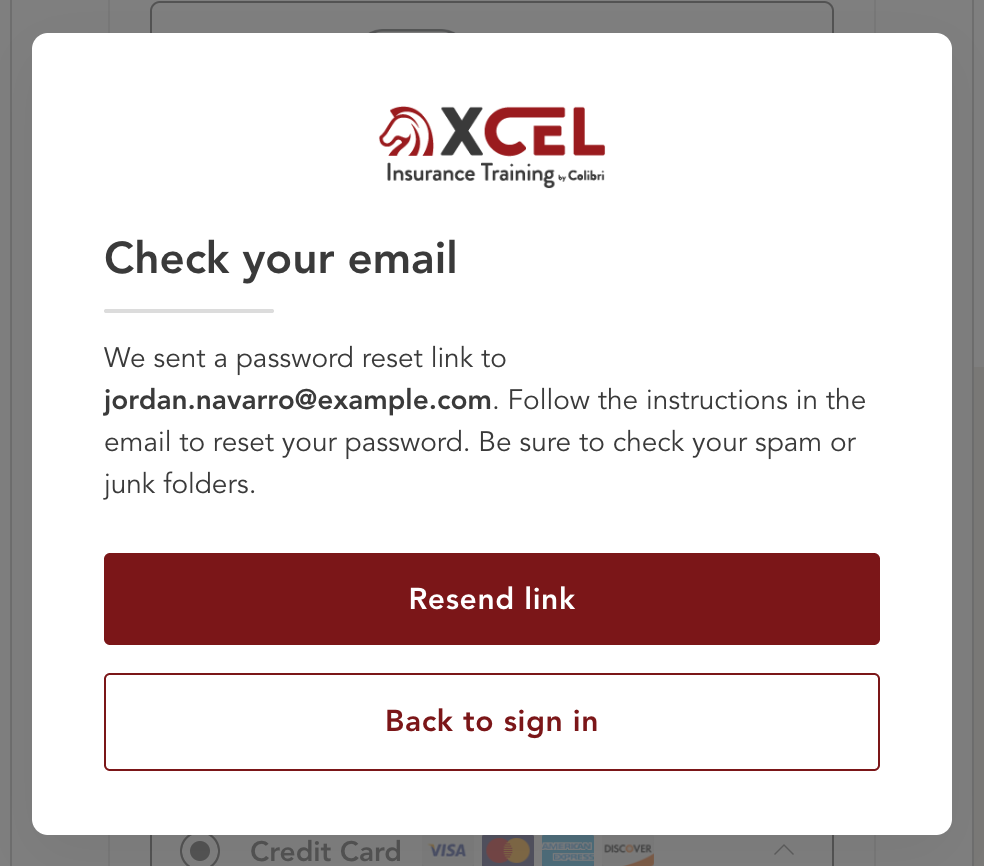
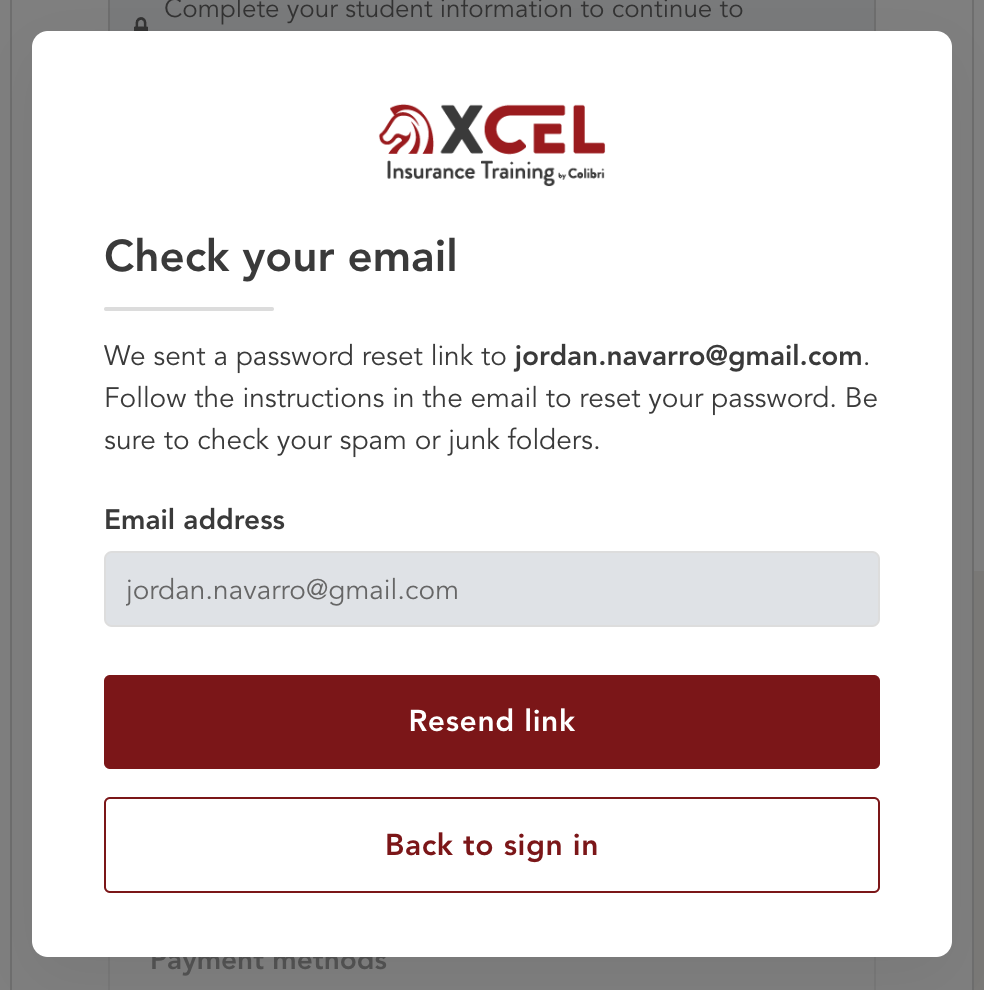
feat(invite-v3): Check your email shows the address and counts down Resend link
The reset link's address sits in a disabled grey field (no lock), and a
"You can resend the link in 0:30" line counts down under Resend link for
the 30 seconds it is off. Handoff questions on the wait and the countdown
marked Decided; screenshots re-shot.

diff --git a/src/data/handoffs/xcel-invite-v3-checkout-modals.ts b/src/data/handoffs/xcel-invite-v3-checkout-modals.ts
@@ -24,7 +24,7 @@ const feature: PrototypeFeature = {
   devStatus: 'not-ready',
   surface: 'invite',
   owner: 'Afsana',
-  lastUpdated: '2026-11-13T17:25:56Z',
+  lastUpdated: '2026-11-13T17:45:14Z',
   accent: 'gold',
   icon: 'flag',
   brands: ['xcel'],
@@ -248,8 +248,8 @@ const feature: PrototypeFeature = {
           { name: 'Password entered', when: 'Anything in the field. Log in turns on.' },
           { name: 'Direct Email — address pre-filled', when: 'Direct Email with an Atlas account. An Email address field holds the invited address, editable like any field — no lock, no grey; the line drops the address. Log in needs a password and a valid email.', why: 'The learner sees which account they are signing in to, and can sign in with another address if the invitation went to a different one.' },
           { name: 'Wrong password', when: 'Log in with a password that does not match. Red text under the field — "We couldn’t log you in. Please try again." — and a red stroke along the field’s bottom. Editing the password clears both.' },
-          { name: 'Check your email', when: 'Forgot password? was clicked. The modal becomes "Check your email": "We sent a password reset link to [email, bold]. Follow the instructions in the email to reset your password. Be sure to check your spam or junk folders." Resend link (primary) over Back to sign in (secondary).' },
-          { name: 'Resend link waiting', when: 'Check your email, straight after a link is sent and after every resend. Resend link is disabled until the system allows another request.', why: 'A link has just gone out; a second request before the first can arrive only multiplies the emails.' },
+          { name: 'Check your email', when: 'Forgot password? was clicked. The modal becomes "Check your email": "We sent a password reset link to [email, bold]. Follow the instructions in the email to reset your password. Be sure to check your spam or junk folders." Under it, the address in an Email address field, disabled — grey, no lock. Resend link (primary), the countdown under it while it waits, then Back to sign in (secondary).' },
+          { name: 'Resend link waiting', when: 'Check your email, straight after a link is sent and after every resend. Resend link is disabled for 30 seconds, and a line under it counts down: "You can resend the link in 0:30". The line goes when the button turns on.', why: 'A link has just gone out; a second request before the first can arrive only multiplies the emails.' },
           { name: 'Reset your password', when: 'The learner followed the reset link (in the demo: a click anywhere on Check your email except its two buttons). The XCEL logo, "Reset your password", "Create a new password for [email, bold].", Password, the strength meter and "Password must:" with the seven rules, Confirm new password, and Reset password.', why: 'The same meter and rules as the password the learner creates at the end of the flow, so a new password is held to the same bar and looks the same.' },
           { name: 'Passwords don’t match', when: 'Reset your password, with Confirm new password filled and different. "Passwords do not match." in red under it, and a red stroke along its bottom. Reset password stays off.' },
           { name: 'Password reset', when: 'Reset password was clicked. Back to Log in to continue, the password field empty, with a green banner under the heading: "Your password has been reset." A proposal — see Questions.' },
@@ -258,14 +258,15 @@ const feature: PrototypeFeature = {
           { name: 'Password eye', does: 'Shows or hides the password.' },
           { name: 'Forgot password?', does: 'Sends a reset link to the address and turns the modal into Check your email.' },
           { name: 'Log in', does: 'Off until there is a password. Then signs in and opens Signing you in…, or shows the wrong-password error.' },
-          { name: 'Resend link (Check your email)', does: 'Disabled for a wait after each send, the first included. Then sends another reset link and is disabled again.' },
+          { name: 'Resend link (Check your email)', does: 'Disabled for 30 seconds after each send, the first included, with the countdown under it. Then sends another reset link and is disabled again.' },
           { name: 'Back to sign in (Check your email)', does: 'Returns to Log in to continue.' },
           { name: 'Password and Confirm new password eyes (Reset your password)', does: 'Show or hide each field.' },
           { name: 'Reset password', does: 'Off until all seven rules are met and both fields match. Then saves the new password and returns to Log in to continue with the Password reset banner (proposed).' },
         ],
         statesMatrix: [
           { question: 'What if the password is wrong?', answer: '"We couldn’t log you in. Please try again." in red under the field, 12px, with a 2px red stroke along its bottom. Log in stays on.' },
-          { question: 'How long is Resend link disabled?', answer: 'Not decided — see Questions. The prototype uses 30 seconds as a stand-in.' },
+          { question: 'How long is Resend link disabled?', answer: '30 seconds after each send, counted down under the button.' },
+          { question: 'Can the learner change the address on Check your email?', answer: 'No. It is shown in a disabled field — grey, no lock. To use a different address they go Back to sign in.' },
         ],
         edgeCases: [
           'Demo only: the password "wrong" fails; any other password signs in.',
@@ -288,10 +289,11 @@ const feature: PrototypeFeature = {
           states: [
             'Log in, Resend link and Reset password: disabled (grey) until they can be used, then the brick primary.',
             'Back to sign in: the primary’s size and shape, white with a 1px brick outline and brick text.',
+            'Check your email’s Email address field: disabled — the locked grey (--color-e2e-form-locked-v3), secondary text, no lock icon.',
           ],
           responsive: [
             'The same 460px modal and spacing as Enter your email. Error line 12px / 16px under the field; Forgot password? 13px under that.',
-            'Check your email: Resend link and Back to sign in full width, stacked 14px apart.',
+            'Check your email: the disabled Email address field under the text, then Resend link, the countdown line (13px / 18px, secondary text, centred) and Back to sign in, full width, stacked 14px apart.',
           ],
           sources: [
             'The final prototype is the source of truth — the second Live Preview route.',
@@ -502,15 +504,13 @@ const feature: PrototypeFeature = {
         },
         {
           question: 'How long is Resend link disabled on Check your email?',
-          decision: 'Open — the system’s call. It must stay disabled until another request is allowed. The prototype uses 30 seconds as a stand-in.',
-          status: 'Needs weigh-in',
-          owner: 'Engineering',
+          decision: '30 seconds after each send, the first included (Afsana, 2026-11-13).',
+          status: 'Decided',
         },
         {
           question: 'Should Check your email say how long until the learner can request another link?',
-          decision: 'Open. The one-time code step shows its wait ("Resend code in 10:00"); without one here a learner cannot tell whether the button is waiting or broken.',
-          status: 'Needs weigh-in',
-          owner: 'Design and Engineering',
+          decision: 'Yes. A countdown under Resend link — "You can resend the link in 0:30" — as the one-time code step shows its wait; without one a learner cannot tell whether the button is waiting or broken (Afsana, 2026-11-13).',
+          status: 'Decided',
         },
         {
           question: 'Should Check your email say how long the reset link is valid (for example, 1 hour)?',
@@ -556,7 +556,7 @@ const feature: PrototypeFeature = {
         'Decide how Enter your email behaves after a signed-in XCEL (OCD) learner is signed out — shown, pre-filled, locked.',
         'Set how long the Code resent banner stays up.',
         'Set how long Signing you out… shows.',
-        'Set the Resend link wait, and whether Check your email states the wait and the link’s validity.',
+        'Decide whether Check your email states how long the reset link is valid.',
         'Decide where Reset password takes the learner — proposed: Log in to continue with a "Your password has been reset." banner.',
         'Design the code email failing to send.',
         'Design the order failing to place.',

diff --git a/src/components/e2e/VerifyEmailModalV3.tsx b/src/components/e2e/VerifyEmailModalV3.tsx
@@ -593,6 +593,13 @@ function LoginStep({
             instructions in the email to reset your password. Be sure to check your spam or junk folders.
           </p>
         </div>
+        {/* The address the link went to, in a field the learner cannot change
+            — grey, no lock, as the checkout's fixed fields (2026-11-13,
+            Afsana). */}
+        <label htmlFor="reset-email" style={FIELD_GROUP}>
+          <span style={FIELD_LABEL}>Email address</span>
+          <input id="reset-email" type="email" value={email.trim()} disabled readOnly style={{ ...FIELD, ...FIELD_DISABLED }} />
+        </label>
         {/* Resend link, primary, over Back to sign in, secondary (2026-11-05,
             Afsana). Back is the way out — the modal has no ✕. */}
         <div style={ACTIONS}>
@@ -606,6 +613,12 @@ function LoginStep({
           >
             Resend link
           </button>
+          {/* The wait, counted down under the button (2026-11-13, Afsana). */}
+          {canResend ? null : (
+            <p role="timer" aria-live="off" style={{ ...NOTE, alignSelf: 'stretch', textAlign: 'center' }}>
+              You can resend the link in {formatCountdown(linkWait)}
+            </p>
+          )}
           <button
             type="button"
             style={CTA_SECONDARY}
@@ -958,6 +971,14 @@ const FIELD: CSSProperties = {
   fontSize: 14,
   color: 'var(--color-text-primary)',
   border: '1px solid var(--color-e2e-card-outline)',
+}
+
+/* A field the learner cannot change: grey, no lock — the checkout's
+   FIELD_DISABLED (2026-11-13, Afsana). */
+const FIELD_DISABLED: CSSProperties = {
+  background: 'var(--color-e2e-form-locked-v3)',
+  color: 'var(--color-text-secondary)',
+  cursor: 'not-allowed',
 }
 
 /* Code resent — light green, the success scale's lightest fill. */

diff --git a/src/test/InviteFlowV3Screens.test.tsx b/src/test/InviteFlowV3Screens.test.tsx
@@ -390,13 +390,24 @@ describe('Invite Flow V3 — the email check', () => {
       expect(within(dialog).getByText('jordan@example.com').tagName).toBe('STRONG')
       expect(within(dialog).queryByLabelText(/^Password/)).not.toBeInTheDocument()
 
-      /* A link just went out, so Resend link waits — and again after each resend. */
+      /* The address, in a field nobody can change (2026-11-13). */
+      const field = within(dialog).getByLabelText('Email address')
+      expect(field).toHaveValue('jordan@example.com')
+      expect(field).toBeDisabled()
+
+      /* A link just went out, so Resend link waits, counting down under the
+         button — and again after each resend. */
       const resend = within(dialog).getByRole('button', { name: 'Resend link' })
       expect(resend).toBeDisabled()
-      for (let i = 0; i < 30; i++) await act(() => vi.advanceTimersByTimeAsync(1000))
+      expect(within(dialog).getByRole('timer')).toHaveTextContent('You can resend the link in 0:30')
+      await act(() => vi.advanceTimersByTimeAsync(1000))
+      expect(within(dialog).getByRole('timer')).toHaveTextContent('You can resend the link in 0:29')
+      for (let i = 0; i < 29; i++) await act(() => vi.advanceTimersByTimeAsync(1000))
       expect(resend).toBeEnabled()
+      expect(within(dialog).queryByRole('timer')).not.toBeInTheDocument()
       await userEvent.click(resend)
       expect(resend).toBeDisabled()
+      expect(within(dialog).getByRole('timer')).toHaveTextContent('You can resend the link in 0:30')
       expect(within(dialog).queryByRole('status')).not.toBeInTheDocument()
 
       await userEvent.click(within(dialog).getByRole('button', { name: 'Back to sign in' }))
